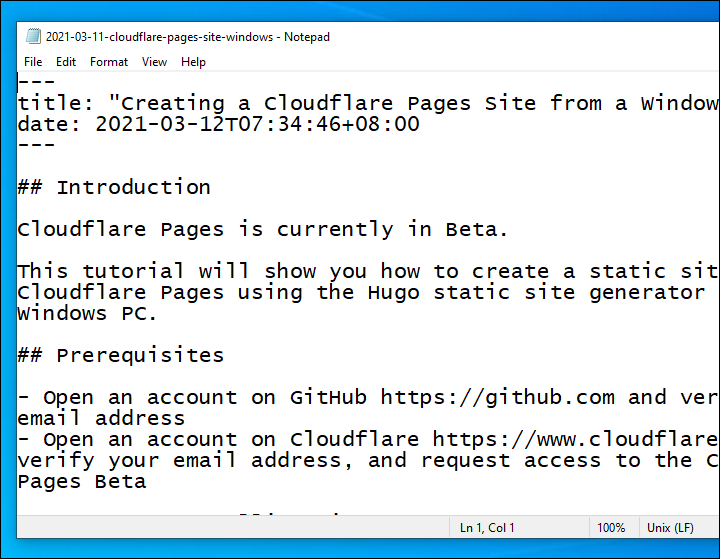
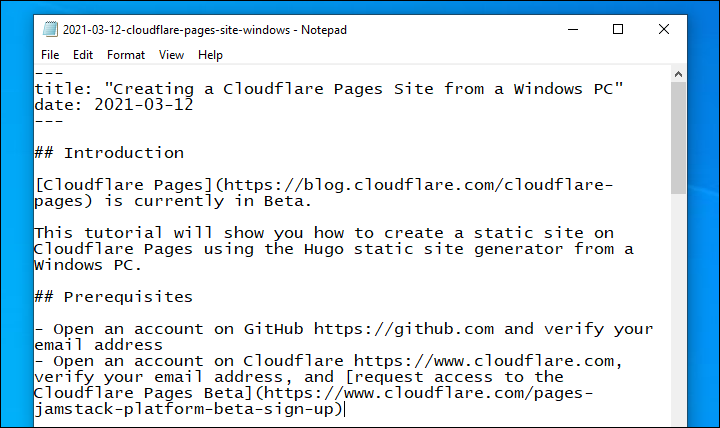
Fix dates and screenshot

Changed region(s): [[0.0, 0.0, 1.0, 1.0]]

diff --git a/content/post/2021-03-12-cloudflare-pages-site-windows.md b/content/post/2021-03-12-cloudflare-pages-site-windows.md
@@ -1,18 +1,18 @@
 ---
 title: "Creating a Cloudflare Pages Site from a Windows PC"
-date: 2021-03-11
+date: 2021-03-12
 ---
 
 ## Introduction
 
-Cloudflare Pages is currently in Beta.
+[Cloudflare Pages](https://blog.cloudflare.com/cloudflare-pages) is currently in Beta.
 
 This tutorial will show you how to create a static site on Cloudflare Pages using the Hugo static site generator from a Windows PC.
 
 ## Prerequisites
 
 - Open an account on GitHub https://github.com and verify your email address
-- Open an account on Cloudflare https://www.cloudflare.com, verify your email address, and request access to the Cloudflare Pages Beta
+- Open an account on Cloudflare https://www.cloudflare.com, verify your email address, and [request access to the Cloudflare Pages Beta](https://www.cloudflare.com/pages-jamstack-platform-beta-sign-up)
 
 ## Step 1 — Installing Git
 
@@ -154,12 +154,12 @@ When you are done, close your browser, and press **CTRL**+**C** to stop Hugo run
 
 ## Step 5 — Creating a Hugo Post
 
-Create a new post. This example is named `2021-03-11-cloudflare-pages-site-windows`, but you should choose a name of your own.
+Create a new post. This example is named `2021-03-12-cloudflare-pages-site-windows`, but you should choose a name of your own.
 
 ```
 cd C:\Hugo\sites\my-hugo-site
 
-hugo new post/2021-03-11-cloudflare-pages-site-windows.md
+hugo new post/2021-03-12-cloudflare-pages-site-windows.md
 ```
 
 Edit the file in Notepad.
